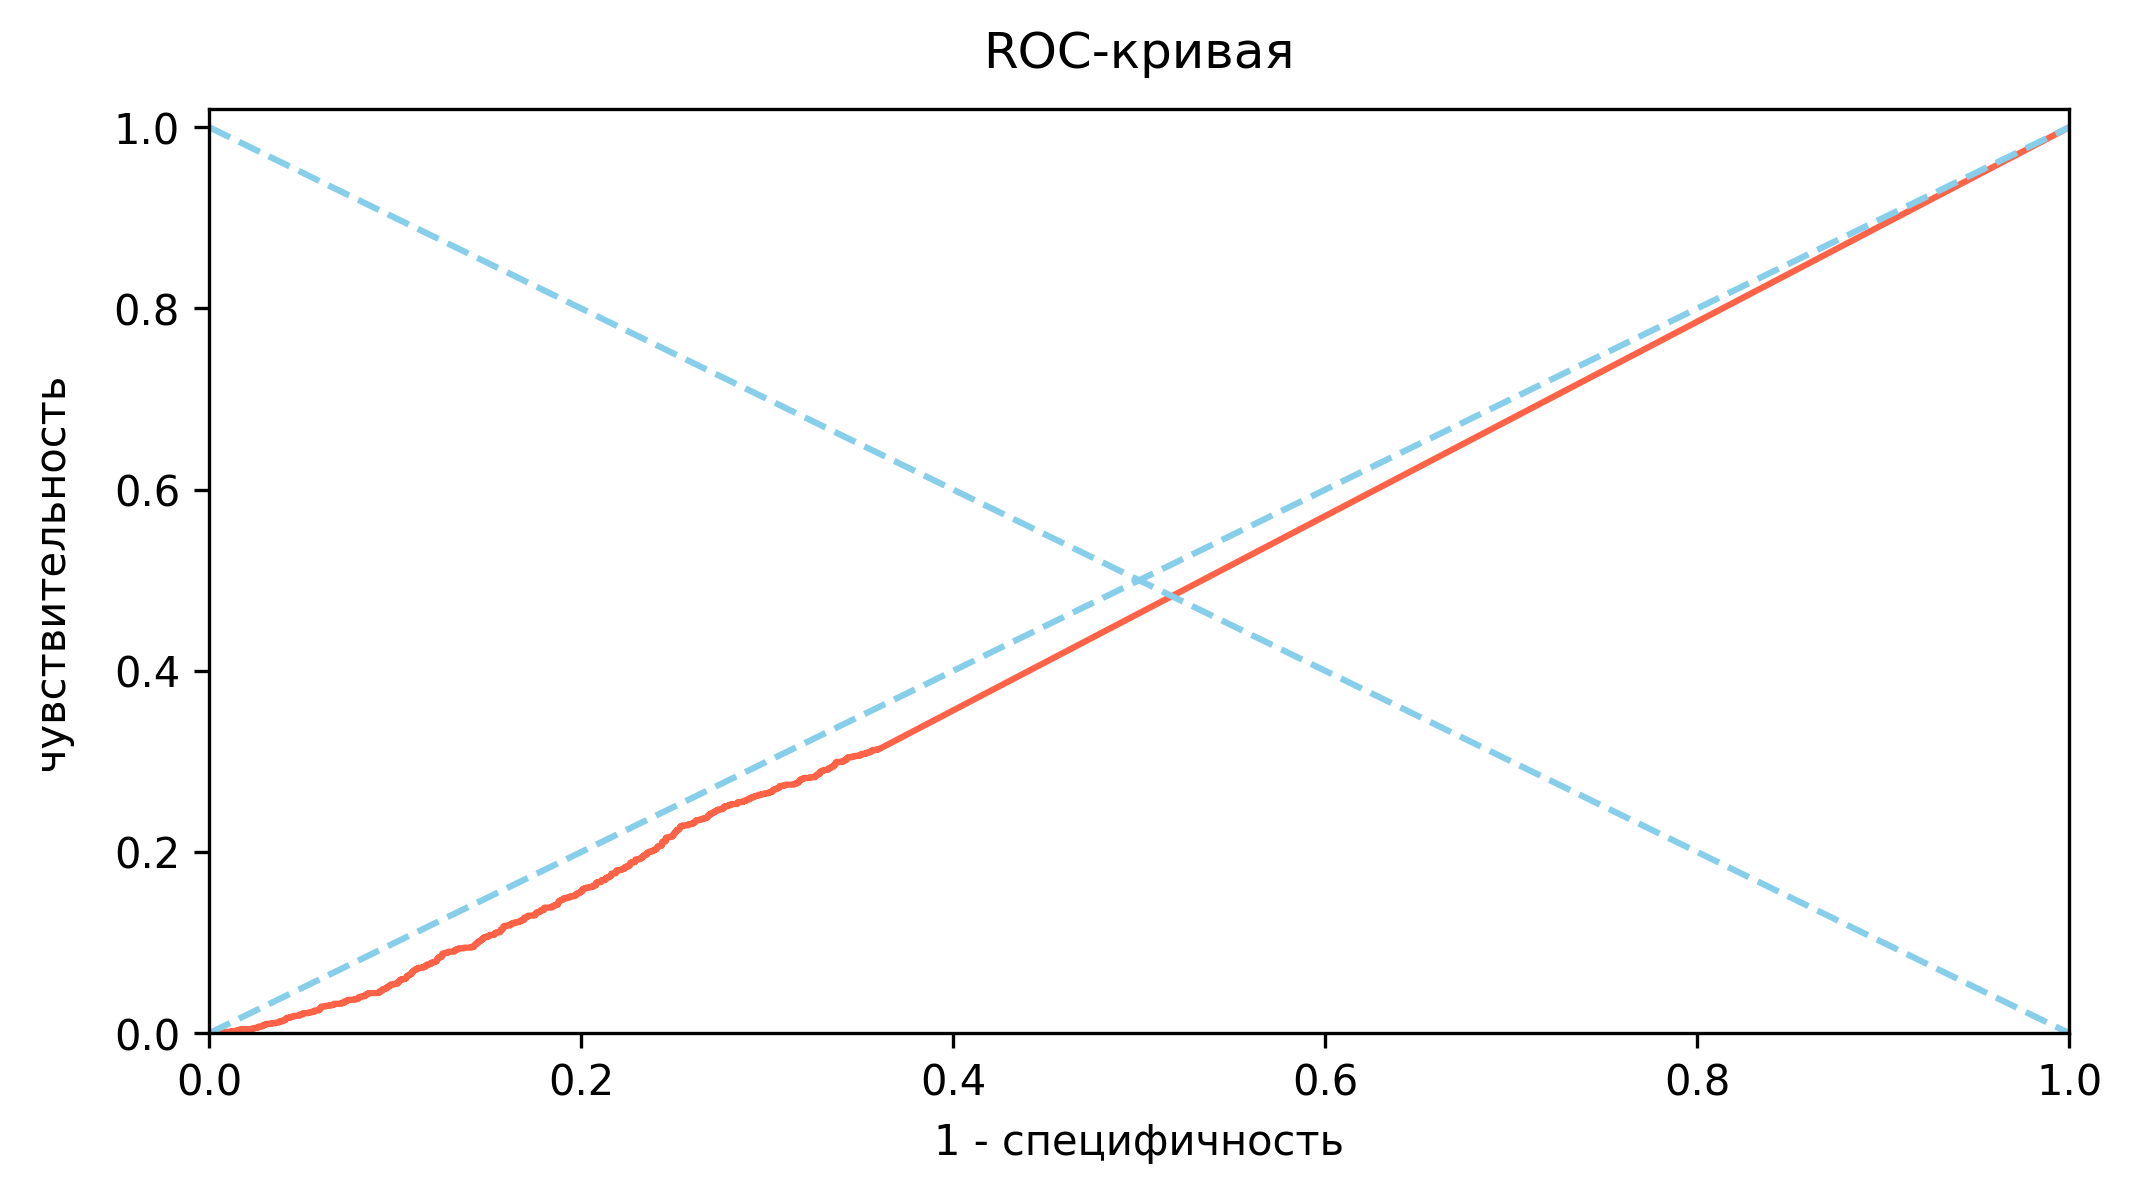
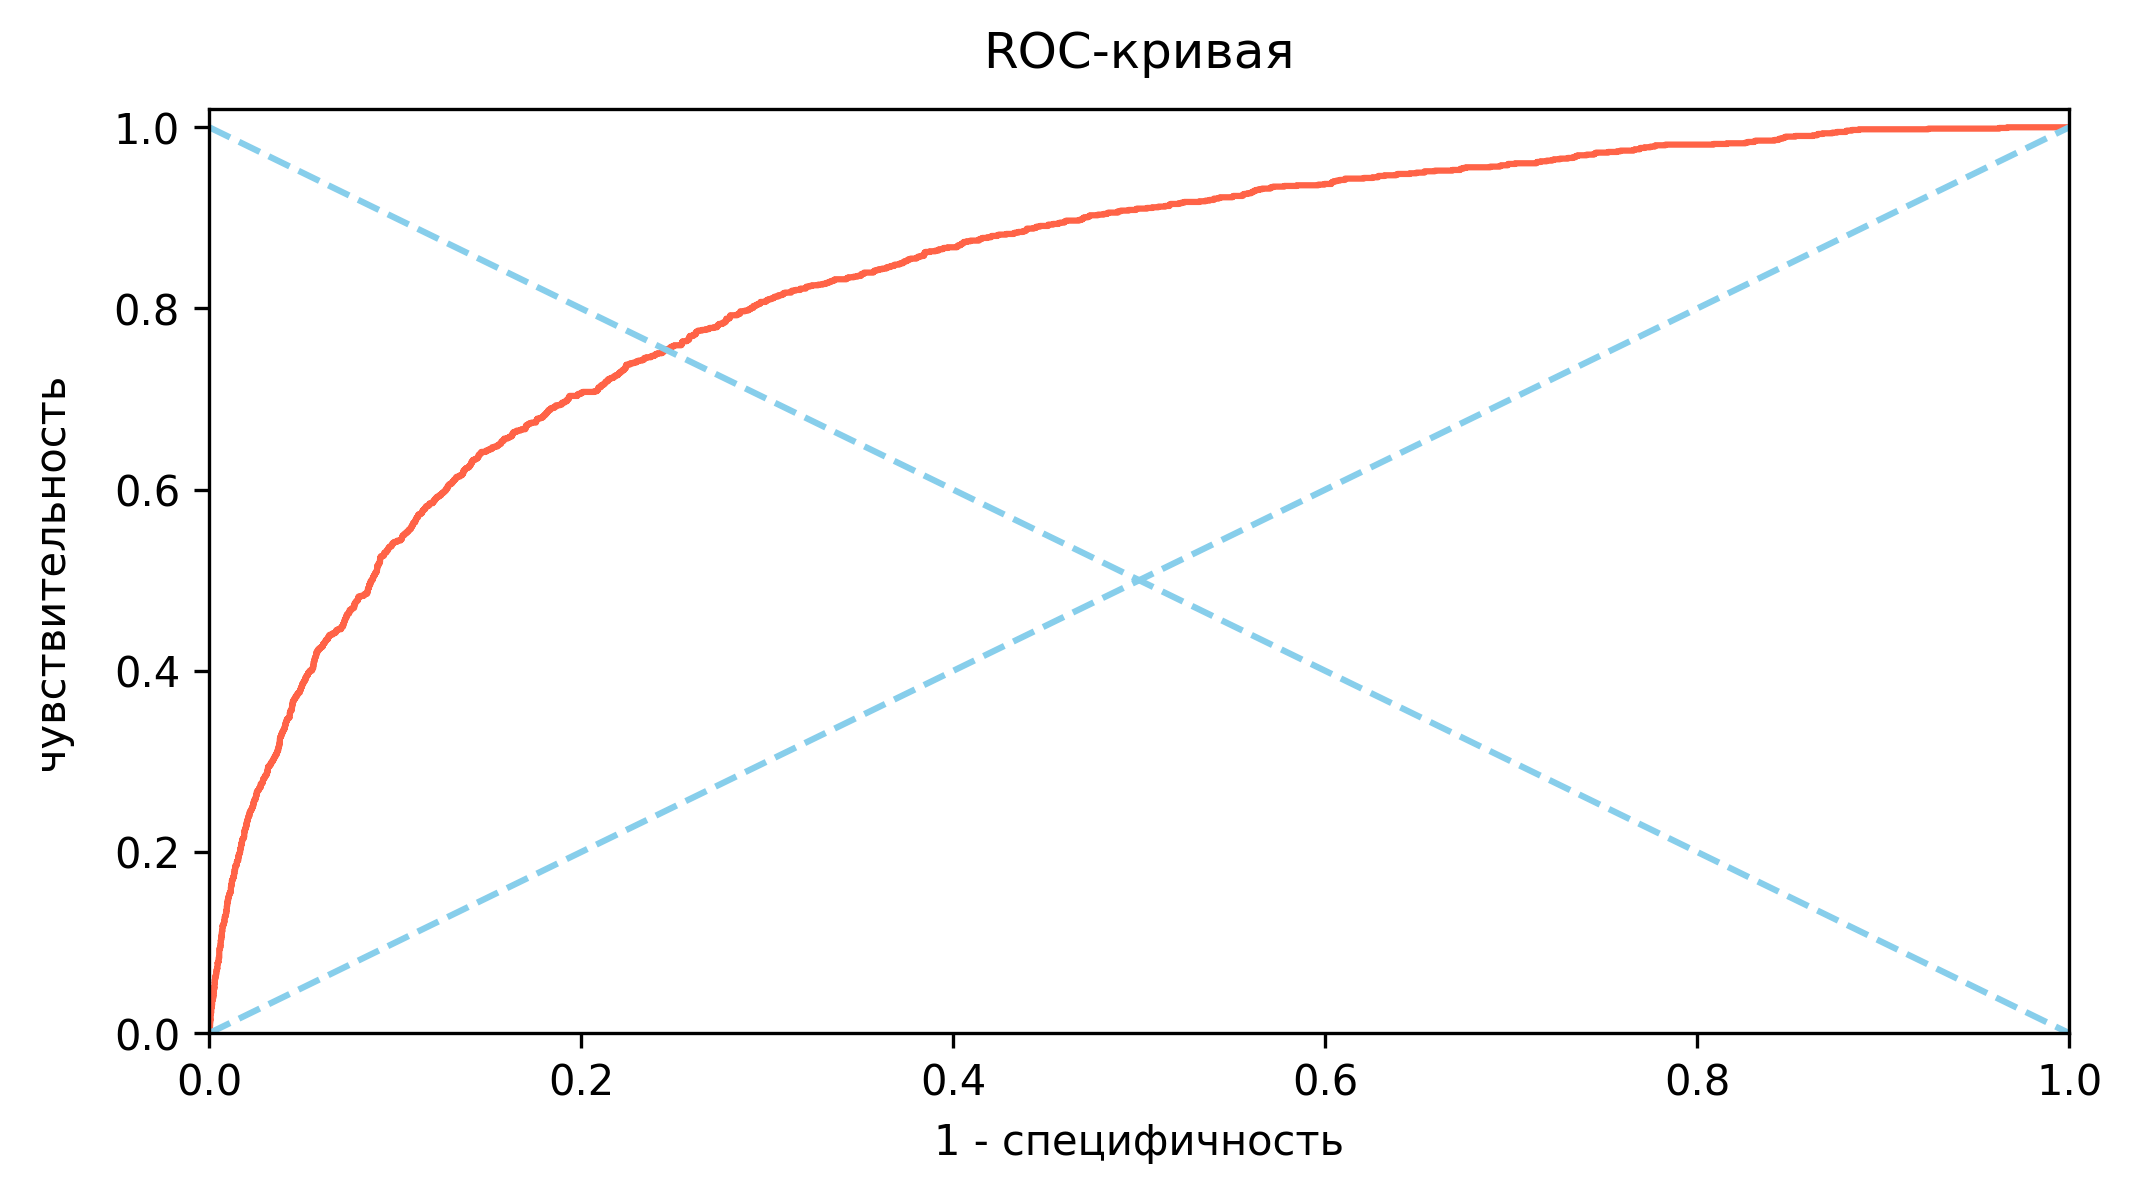
plot tuning result

diff --git a/plot_tuning_result.py b/plot_tuning_result.py
@@ -1,0 +1,46 @@
+import json
+import matplotlib.pyplot as plt
+import seaborn as sns
+
+with open("./output/metrics_by_units.json", "r", encoding="utf-8") as file:
+    metrics_by_units = json.load(file)
+
+print(metrics_by_units)
+
+metrics = ["avg_sen", "avg_spec", "avg_f1", "avg_auc"]
+metric_names = [
+    "чувствительность",
+    "специфичность",
+    "f1-мера",
+    "AUC-метрика",
+]
+
+units = [i["units"] for i in metrics_by_units]
+
+fig, axes = plt.subplots(2, 2, figsize=(12, 6))
+rows, cols = 2, 2
+for i in range(rows):
+    for j in range(cols):
+        ind = i * cols + j
+        metric = metrics[ind]
+        metric_name = metric_names[ind]
+        y_values = [i[metric] for i in metrics_by_units]
+        axes[i, j].set_title(
+            "Зависимость между числом нейронов и качеством модели", pad=10, fontsize=10
+        )
+        axes[i, j].set_xlabel(f"Кол-во нейронов", labelpad=10, fontsize=8)
+        axes[i, j].set_ylabel(f"{metric_name}", labelpad=10, fontsize=8)
+        sns.lineplot(
+            x=units,
+            y=y_values,
+            ax=axes[i, j],
+            marker="o",
+            color="blue",
+            linestyle="--",
+            label=f"{metric_name}",
+        )
+        axes[i, j].legend(loc="upper right", fontsize="small", framealpha=0.5)
+        axes[i, j].grid(visible=True)
+
+plt.subplots_adjust(hspace=0.5)
+plt.savefig("./train_images/tuning_results/result_5-10_units", dpi=300)

diff --git a/checking_data.py b/checking_data.py
@@ -1,0 +1,11 @@
+import pandas as pd
+
+df = pd.read_csv("./data/ferritin-v2.csv", sep=",", dtype={"hgb": float})
+print(df.head())
+print(df.shape)
+
+columns_to_check = df.drop(columns=["gender"]).columns
+
+filtered_df = df[(df[columns_to_check] == 0).any(axis=1)].reset_index(drop=True)
+print(filtered_df.head())
+print(filtered_df.shape)

diff --git a/train.py b/train.py
@@ -25,7 +25,7 @@ for i in range(repeats):
     class_weight, x_train, y_train, x_test, y_test = preparate_data(
         df, targets, seeds[i]
     )
-    model = create_model(5)
+    model = create_model(20)
     history_data = train_model(
         model,
         x_train,
